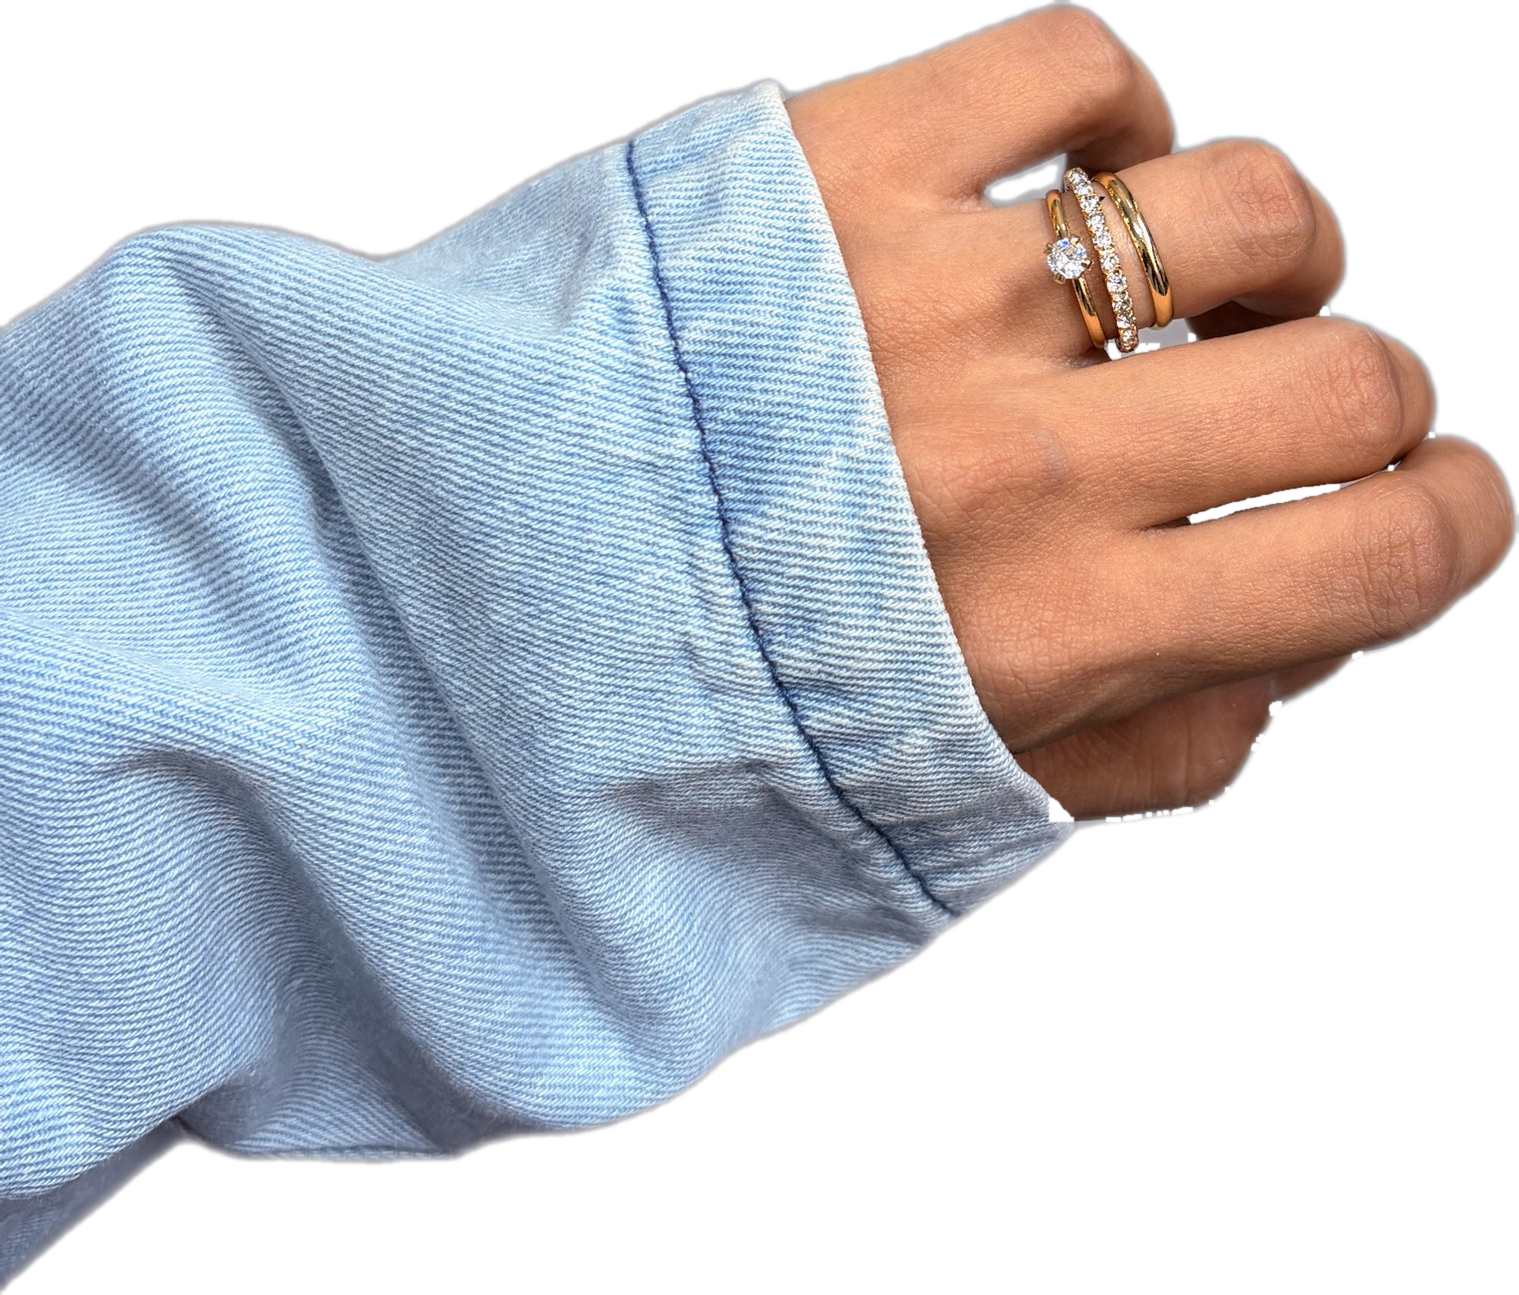
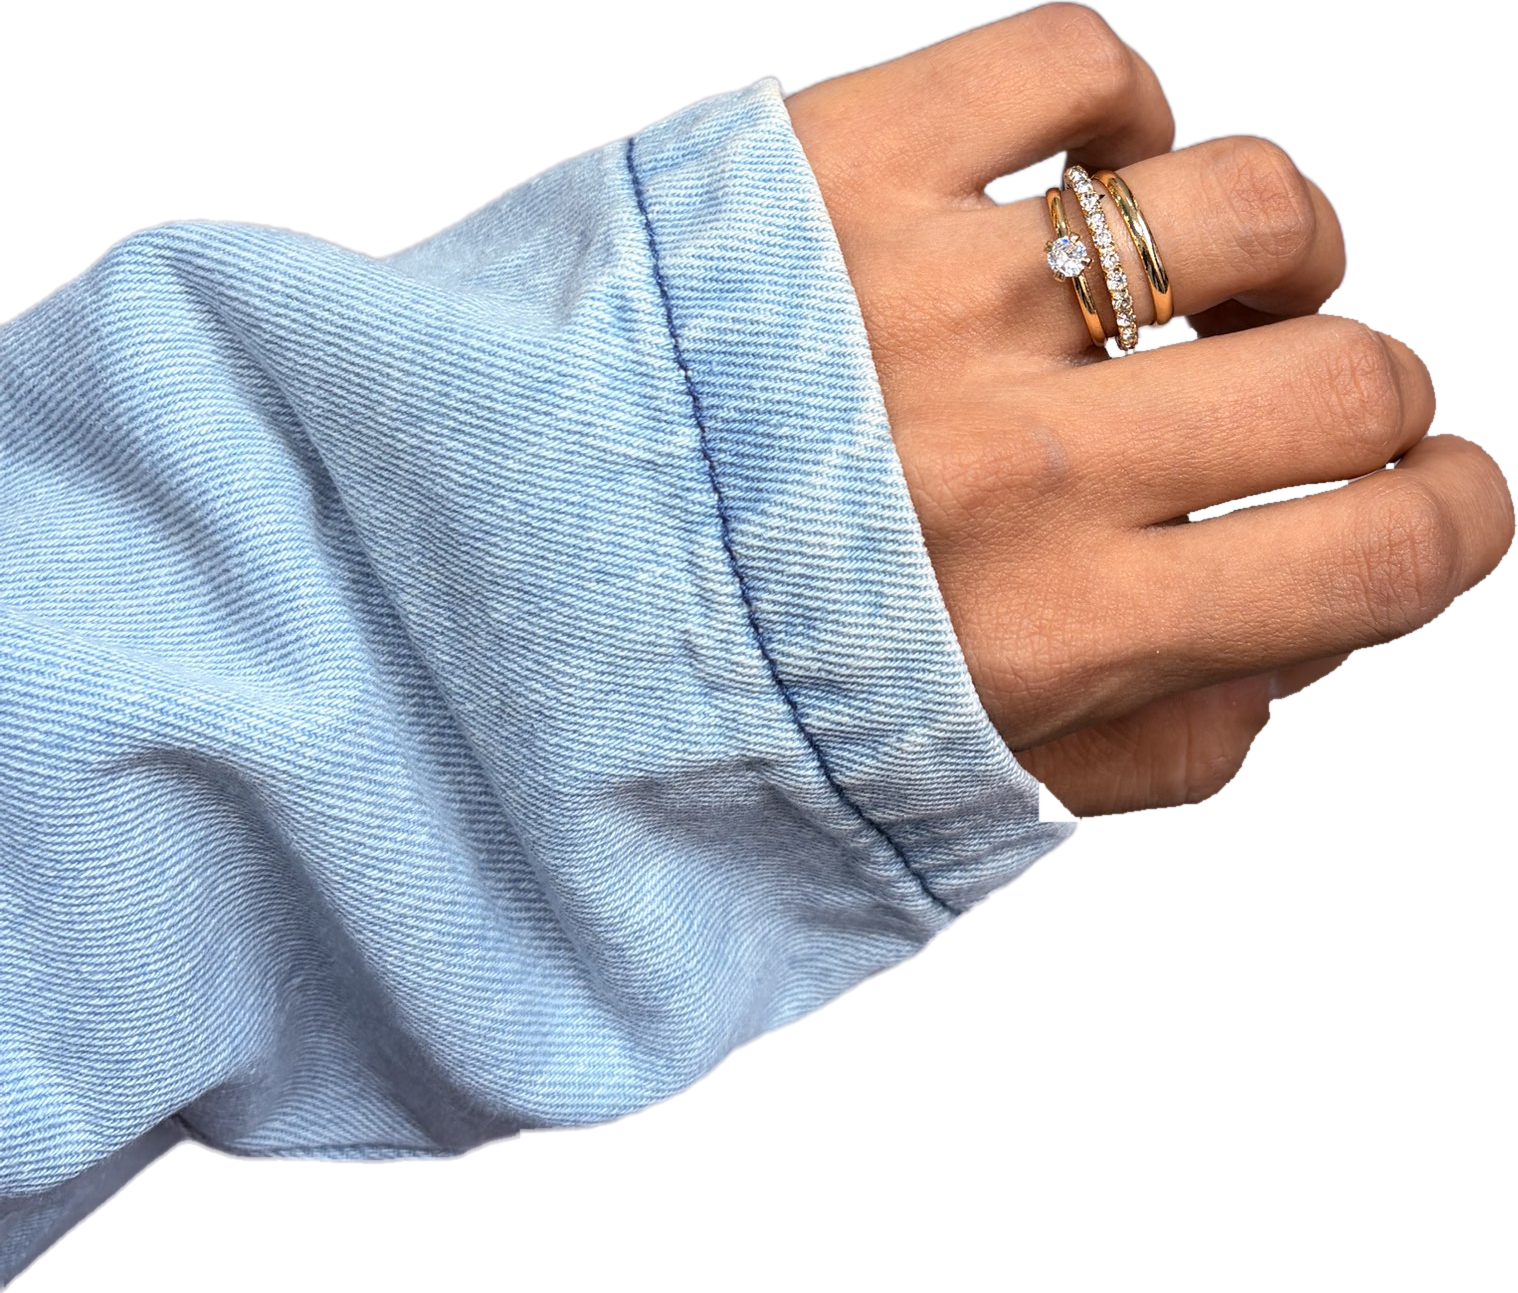
Card 'Dia oficial': limpa espaços entre os dedos e adiciona anéis recortados
Claude-Session: https://claude.ai/code/session_01Ds4o6DPNY229NefAqtX4RB

diff --git a/cards/render-dia.js b/cards/render-dia.js
@@ -1,6 +1,6 @@
 const {chromium}=require('playwright');const fs=require('fs');
-const f={feed:{H:1350,PADT:70,PADB:60,KS:24,G1:22,BS:190,BL:150,BT:150,BP:22,BPX:34,LW:210,G2:24,SS:44,G3:24,POS:'50% 58%',G4:20,CW:780,RW:210,RT:60},
- stories:{H:1920,PADT:240,PADB:290,KS:26,G1:26,BS:220,BL:150,BT:156,BP:24,BPX:36,LW:220,G2:30,SS:48,G3:40,POS:'50% 58%',G4:30,CW:900,RW:220,RT:60}};
+const f={feed:{H:1350,PADT:70,PADB:60,KS:24,G1:22,BS:190,BL:150,BT:150,BP:22,BPX:34,LW:210,G2:24,SS:44,G3:24,POS:'50% 58%',G4:20,CW:780,RR:10,RB:30,RH:62,RW:210,RT:60},
+ stories:{H:1920,PADT:240,PADB:290,KS:26,G1:26,BS:220,BL:150,BT:156,BP:24,BPX:36,LW:220,G2:30,SS:48,G3:40,POS:'50% 58%',G4:30,CW:900,RR:0,RB:0,RH:50,RW:220,RT:60}};
 (async()=>{const b=await chromium.launch();
 for(const [k,v] of Object.entries(f)){const p=await b.newPage({viewport:{width:1080,height:v.H}});
  let h=fs.readFileSync('dia-oficial.html','utf8');for(const [kk,vv] of Object.entries(v)) h=h.split(`{{${kk}}}`).join(vv);

diff --git a/cards/dia-oficial.html b/cards/dia-oficial.html
@@ -18,11 +18,12 @@ body{width:1080px;height:{{H}}px;overflow:hidden;background:#0f4a33;color:#f3ead
 .ring svg{width:100%;height:100%}
 .ring text{font:500 17px Montserrat;fill:#f3ead8}
 .foot{text-align:center;margin-top:{{G4}}px}.foot img{width:{{LW}}px}
+.ph .rings{position:absolute;right:{{RR}}px;bottom:{{RB}}px;height:{{RH}}%;width:auto;filter:drop-shadow(0 16px 26px rgba(0,0,0,.4))}
 </style></head><body><div class="wrap">
 <div class="kick">HOJE É O DIA OFICIAL DA</div>
 <div class="big"><span>BLACK</span><span>FRIDAY</span></div>
 <div class="row"><div class="sub">As melhores<br><b>ofertas Zemora</b><br>estão te esperando</div></div>
-<div class="ph"><img class="cut" src="mao-recortada.png">
+<div class="ph"><img class="cut" src="mao-recortada.png"><img class="rings" src="aneis-recortados.png">
 </div>
 <div class="foot"><img src="logo-zemora-creme.png"></div>
 </div></body></html>
